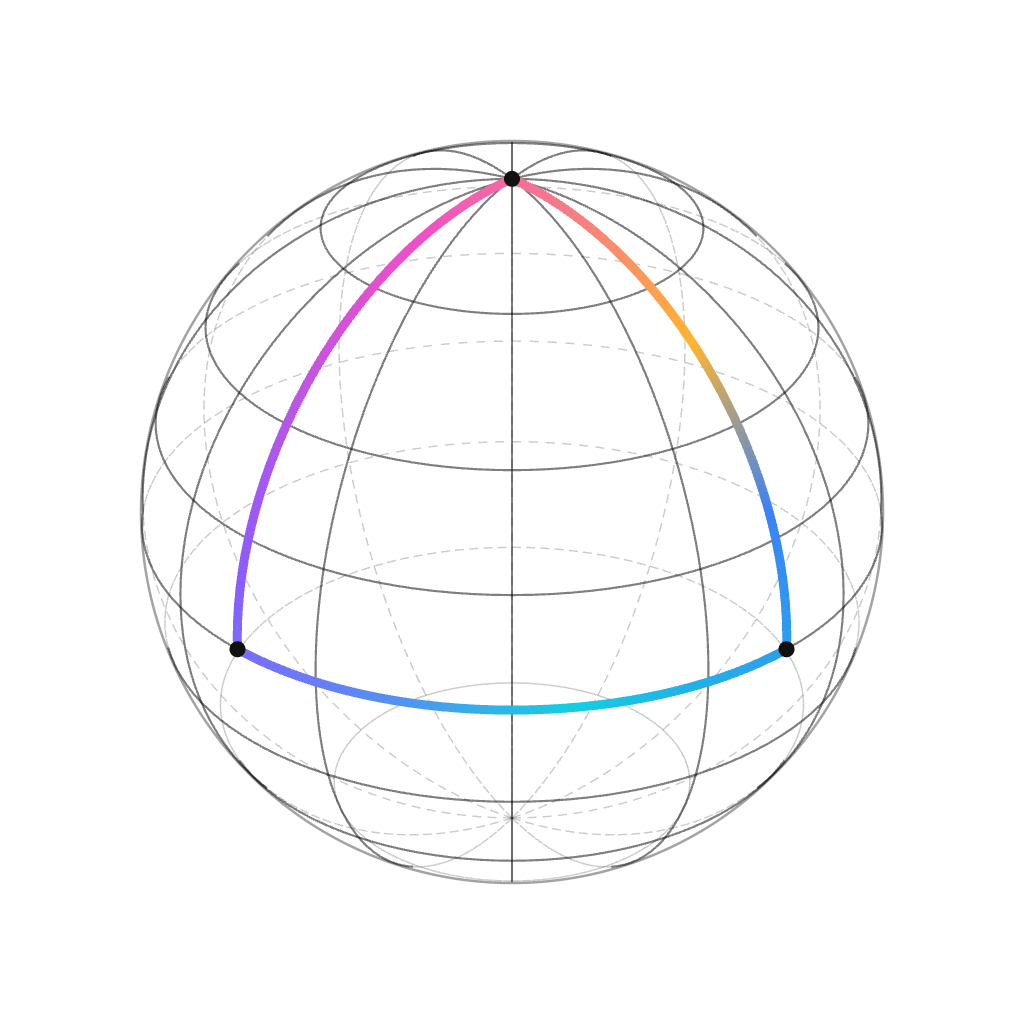
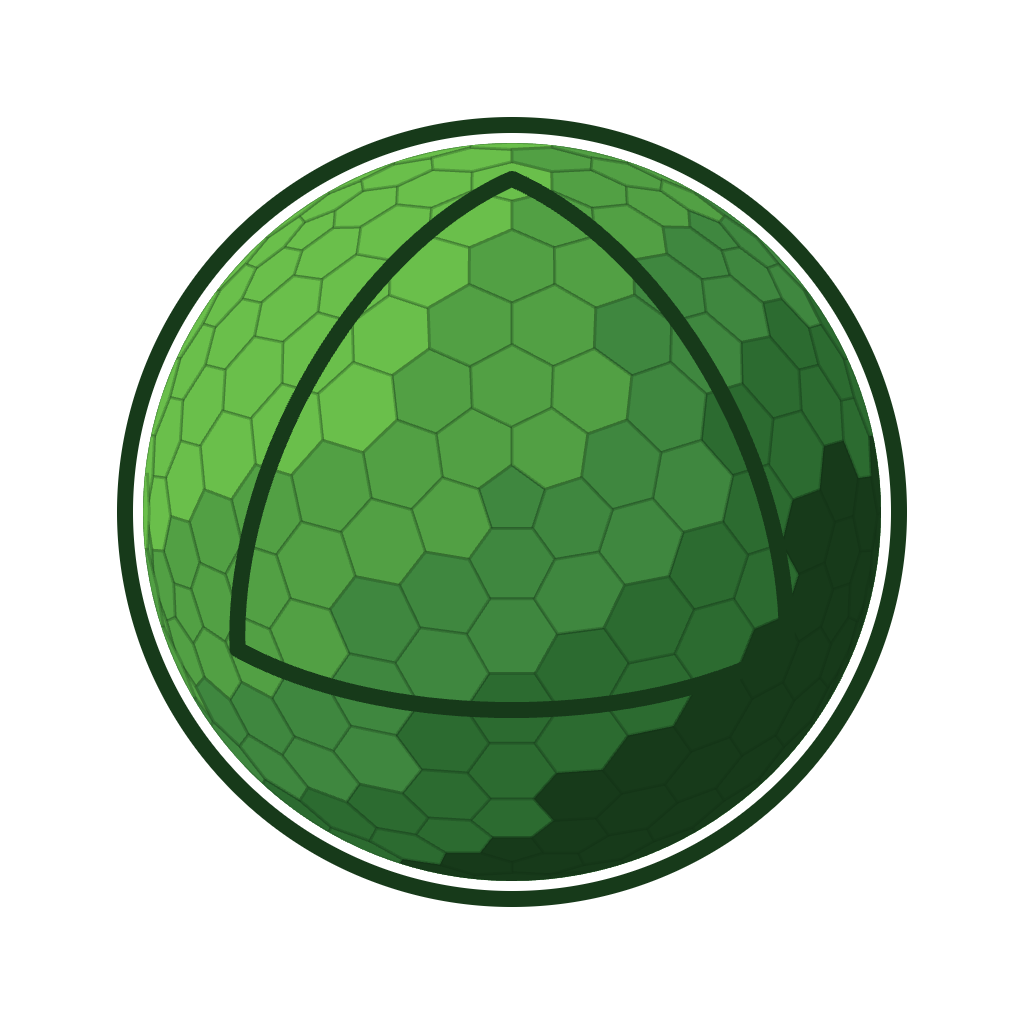
docs: update Holonomy repository mark

diff --git a/.oo/rules/project-identity.md b/.oo/rules/project-identity.md
@@ -9,12 +9,13 @@
 
 ## Visual identity
 
-- The canonical concept is a transparent wireframe sphere above a gravity-warped plane. A closed triangular path connects one pole to two equatorial points separated by 90 degrees.
+- The canonical geometry is a sphere with a closed triangular path connecting one pole to two equatorial points separated by 90 degrees. The wireframe-and-gravity-plane rendering remains the scientific concept view; the flat Goldberg rendering is the compact repository mark.
 - Use a 30-degree elevated view and a full-opacity spectral path. Dark mode uses a pure-black field, translucent white front geometry, and darker dashed rear geometry; light mode uses a pure-white field, black front geometry, and lighter dashed rear geometry.
 - The sphere occupies about 72% of the square export. The Gaussian gravity well sits slightly above the sphere's mathematical bottom and remains visible without an opaque ground-shadow ellipse. Depth comes from projection, line opacity, dashes, and grid deformation—not glow, material fill, or an extra shadow patch.
-- Light and dark path gradients are authored separately. The light loop uses higher-luminance blue, cyan, violet, pink, and orange stops instead of an inverted dark asset.
+- Light and dark spectral path gradients are authored separately for the wireframe and solid renderers. The light loop uses higher-luminance blue, cyan, violet, pink, and orange stops instead of an inverted dark asset.
 - The source preview lives in the `oneworks-ai/icon` repository. `assets/holonomy-icon-light.png` and `assets/holonomy-icon-dark.png` are repository-facing 1024-by-1024 static exports; regenerate both from that preview instead of filtering or hand-editing either bitmap.
-- README exports isolate the transparent sphere and closed path, omitting both the flat field and gravity plane so GitHub supplies the surrounding light or dark surface. The two assets still carry appearance-specific geometry and path colors; do not collapse them into one image or bake a white/black square into either PNG. The full icon preview retains the gravity plane as part of the broader visual concept.
+- The repository mark uses a frequency-six Goldberg mesh and the Node.js core green `#3F873F` as a restrained homage to the runtime lineage. The spherical tiling and Holonomy path stay structurally distinct from Node.js's hexagonal logo; do not copy that enclosing mark or expand this into a multi-brand lockup.
+- README exports isolate the transparent flat sphere, geodesic path and outer ring, omitting the gravity plane so GitHub supplies the surrounding light or dark surface. The dark asset uses a pale-green path and ring; the light asset uses deep green. Do not collapse them into one image or bake a white/black square into either PNG. The full icon preview retains the gravity plane as part of the broader visual concept.
 
 ## Documentation boundary
 
